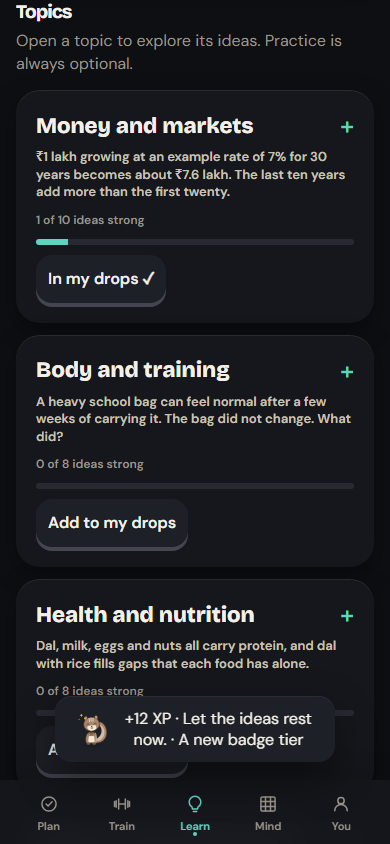
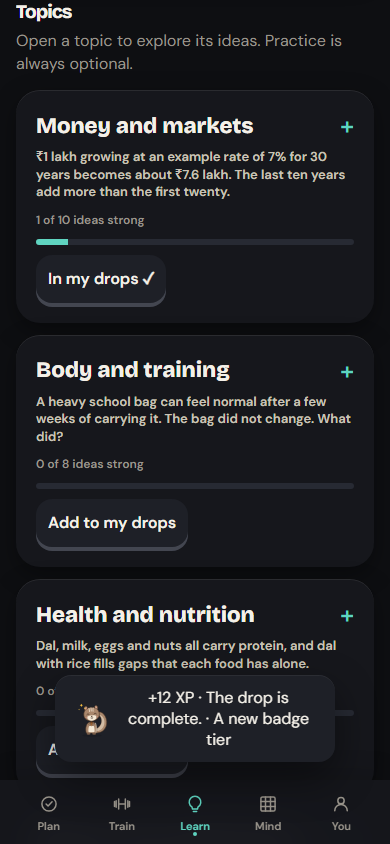
Lesson walk fixes: readable scale and flow diagrams, no page widening, toast off the feedback sheet, honest Perfect drop line
- Scale diagrams: numbered dots on the bar and the words in a list under it (labels overprinted on 26 of 35).
- Flows read top to bottom, one node per line.
- The slide between questions is clipped, so a 360 px page no longer grows to 373 px.
- During a drop the reward toast sits at the top, never over the last feedback sheet.
- "Perfect drop · +10 XP" shows only when it is paid (3+ questions); "1 question", not "1 questions".
- In a lesson the page heading goes and the friend shrinks: the question starts at y=303, was 380.

Changed region(s): [[0.1538, 0.8009, 0.8, 0.8934]]

diff --git a/src/ui/learn/LearnDrop.tsx b/src/ui/learn/LearnDrop.tsx
@@ -243,8 +243,8 @@ export function LearnDrop({ daily = true, night = false, itemCount, preferredCon
       {celebrate && <div className="learn-finish-friends" aria-hidden="true">{friends.map((name, index) => <span key={name} style={{ '--i': index } as CSSProperties}><Cast name={name} pose="cheer" size={64} /></span>)}</div>}
       {goldReview ? <p>{passed ? 'Gold is yours. That idea is holding well.' : 'Try again tomorrow.'}</p> : !drop.items.length && (night || isAfterBedtime(currentTime(), typeof data.bedtime?.value === 'string' ? data.bedtime.value : RULES.night.defaultBedtime)) ? <p>Nothing to review tonight. Sleep is the best study.</p> : <>
         {taughtToday && <div className="step-today card"><p className="eyebrow">Today's idea · {taughtToday.step.title}</p><p className="step-takeaway">{taughtToday.step.takeaway}</p><StepVisual visual={taughtToday.step.visual} /></div>}
-        {questions > 0 && <FinishStats run={celebrate} stats={[[questions, 'questions'], [right, 'right'], [touched.length, touched.length === 1 ? 'idea' : 'ideas']]} />}
-        <p>{taughtToday ? (questions ? `1 new idea · ${questions} ${questions === 1 ? 'question' : 'questions'}.` : '1 new idea.') : `${questions} questions explored.`} {daily || night ? 'Come back when the ideas have had time to settle.' : 'Practice is optional. Your daily drop stays finished.'}</p>{daily && perfectDrop(data.ledger, drop.id, questions) && <p className="learn-perfect">Perfect drop · +{RULES.gamify.perfectDropXp} XP</p>}<h3>Concepts touched</h3><div className="learn-chips">{touched.map((concept, index) => <span className="learn-chip" key={concept.id} style={{ '--i': index } as CSSProperties}>{concept.title}</span>)}</div><p>What improved: {improved.length ? improved.map(concept => `${concept.title} (${progressWord(masteryMapState(data.concepts.find(row => row.id === concept.id)))})`).join(', ') : 'you made a first attempt'}.</p><p>Next review: {due && dayKey(due) > dayKey(now) ? new Date(due).toLocaleDateString(undefined, { month: 'short', day: 'numeric' }) : due ? 'later today' : 'check back tomorrow'}.</p></>}{askOffered && <div className="learn-ask">{askLine && <button type="button" className="text-button learn-ask-button" onClick={() => void shareTextNow(askMessage(askLine), undefined, { dialogTitle: 'Ask someone' }).then(sent => setAskNote(shareNote(sent)))}>Ask someone</button>}<p className="small">Or try it on someone at lunch.</p>{askNote && <p role="status">{askNote}</p>}</div>}<button type="button" onClick={onDone ?? (() => go('learn'))}>Continue</button></div>;
+        {questions > 0 && <FinishStats run={celebrate} stats={[[questions, questions === 1 ? 'question' : 'questions'], [right, 'right'], [touched.length, touched.length === 1 ? 'idea' : 'ideas']]} />}
+        <p>{taughtToday ? (questions ? `1 new idea · ${questions} ${questions === 1 ? 'question' : 'questions'}.` : '1 new idea.') : `${questions} ${questions === 1 ? 'question' : 'questions'} explored.`} {daily || night ? 'Come back when the ideas have had time to settle.' : 'Practice is optional. Your daily drop stays finished.'}</p>{daily && questions >= 3 && perfectDrop(data.ledger, drop.id, questions) && <p className="learn-perfect">Perfect drop · +{RULES.gamify.perfectDropXp} XP</p>}<h3>Concepts touched</h3><div className="learn-chips">{touched.map((concept, index) => <span className="learn-chip" key={concept.id} style={{ '--i': index } as CSSProperties}>{concept.title}</span>)}</div><p>What improved: {improved.length ? improved.map(concept => `${concept.title} (${progressWord(masteryMapState(data.concepts.find(row => row.id === concept.id)))})`).join(', ') : 'you made a first attempt'}.</p><p>Next review: {due && dayKey(due) > dayKey(now) ? new Date(due).toLocaleDateString(undefined, { month: 'short', day: 'numeric' }) : due ? 'later today' : 'check back tomorrow'}.</p></>}{askOffered && <div className="learn-ask">{askLine && <button type="button" className="text-button learn-ask-button" onClick={() => void shareTextNow(askMessage(askLine), undefined, { dialogTitle: 'Ask someone' }).then(sent => setAskNote(shareNote(sent)))}>Ask someone</button>}<p className="small">Or try it on someone at lunch.</p>{askNote && <p role="status">{askNote}</p>}</div>}<button type="button" onClick={onDone ?? (() => go('learn'))}>Continue</button></div>;
   }
   if (step.lesson) {
     const taught = findStep(concepts, step.lesson);

diff --git a/src/ui/learn/learn.css b/src/ui/learn/learn.css
@@ -1,5 +1,6 @@
 .deck-card:has(.learn-drop) { padding: 22px; justify-content: flex-start; }
-.learn-drop { width: 100%; display: grid; align-content: start; gap: 14px; }
+/* The slide-in between questions moves content 28 px right; clip it so the page never grows wider than the phone (cj2 lesson walk #4). */
+.learn-drop { width: 100%; display: grid; align-content: start; gap: 14px; overflow-x: clip; }
 .deck-card .learn-drop h2, .learn-drop h2 { font-size: clamp(20px, 5.4vw, 24px); line-height: 1.3; margin: 5px 0; }
 .deck-card .learn-drop h2.learn-stop-title { font-size: clamp(28px, 7vw, 40px); line-height: 1.13; }
 .learn-drop h3 { margin: 0; }
@@ -158,6 +159,10 @@
 /* C: the friend sits in its own row and says the instruction. */
 .learn-ask-row { display: flex; align-items: center; gap: 14px; min-width: 0; }
 .learn-friend { flex: 0 0 72px; display: grid; place-items: center; transform-origin: 50% 90%; transition: transform .2s ease-out; }
+/* In a lesson or question, the page heading goes and the friend shrinks, so the question starts higher (cj2 lesson walk #7). */
+.learn-screen:has(.learn-active) > .eyebrow, .learn-screen:has(.learn-active) > h1 { display: none; }
+.learn-active .learn-friend { flex-basis: 48px; }
+.learn-active .learn-friend .cast-svg { width: 48px; height: 48px; }
 .learn-friend .cast-svg { transform-origin: 50% 90%; animation: learn-breathe 3s ease-in-out infinite; }
 .learn-friend .cast-pose-cheer { animation: cast-hop .6s ease-out 1 both; }
 .learn-friend .cast-pose-think { animation: learn-tilt .5s ease-out 1 both; }
@@ -249,7 +254,9 @@
 .learn-drop .step-teach-text, .learn-drop .step-takeaway { margin: 0; font-size: 18px; line-height: 27px; color: var(--ink); }
 .step-continue { width: 100%; }
 .step-visual { min-width: 0; }
-.step-flow { display: flex; flex-wrap: wrap; align-items: center; gap: 6px; }
+/* A flow reads top to bottom, one node per line, so arrows never end a line at phone width (cj2 lesson walk #12). */
+.step-flow { display: flex; flex-direction: column; align-items: flex-start; gap: 4px; }
+.step-flow .step-arrow { padding-left: 14px; line-height: 1; }
 .step-node { padding: 8px 12px; border-radius: 12px; background: var(--surface-1); box-shadow: inset 0 0 0 2px var(--area-learn), 0 3px 0 var(--edge-learn, var(--area-learn)); font-weight: 700; color: var(--ink); }
 .step-arrow { color: var(--area-learn); font-weight: 800; }
 .step-compare { display: grid; grid-template-columns: 1fr 1fr; gap: 8px; }
@@ -258,10 +265,9 @@
 .step-side span { font-size: 14px; color: var(--ink-2); }
 .step-scale { display: grid; gap: 6px; }
 .step-scale-label { font-size: 13px; color: var(--ink-2); }
-.step-scale-bar { position: relative; height: 14px; margin: 22px 0 0; border-radius: 999px; background: linear-gradient(90deg, color-mix(in srgb, var(--area-learn) 25%, var(--surface-3)), var(--area-learn)); }
-.step-scale-mark { position: absolute; top: -22px; transform: translateX(-50%); display: grid; justify-items: center; white-space: nowrap; }
-.step-scale-mark b { font-size: 12px; color: var(--ink); }
-.step-scale-mark i { width: 2px; height: 30px; background: var(--ink); opacity: .6; }
+.step-scale-bar { position: relative; height: 14px; margin: 8px 11px 0; border-radius: 999px; background: linear-gradient(90deg, color-mix(in srgb, var(--area-learn) 25%, var(--surface-3)), var(--area-learn)); }
+.step-scale-mark { position: absolute; top: 50%; width: 22px; height: 22px; transform: translate(-50%, -50%); display: grid; place-items: center; border-radius: 50%; background: var(--surface-1); color: var(--ink); box-shadow: inset 0 0 0 2px var(--ink); font-size: 12px; font-weight: 800; }
+.step-scale-list { margin: 4px 0 0; padding-left: 22px; display: grid; gap: 2px; font-size: 14px; color: var(--ink-2); }
 .step-scale-ends { display: flex; justify-content: space-between; font-size: 12px; color: var(--ink-3); }
 .learn-drop .step-example { margin: 0; font-size: 18px; line-height: 2.1; }
 .step-part { display: inline; min-height: 0; margin: 0 1px; padding: 4px 6px; border-radius: 8px; background: var(--surface-2); color: var(--ink); font: inherit; box-shadow: inset 0 0 0 2px var(--edge-soft, var(--line)); -webkit-box-decoration-break: clone; box-decoration-break: clone; }

diff --git a/src/ui/learn/StepLesson.tsx b/src/ui/learn/StepLesson.tsx
@@ -11,15 +11,17 @@ const motionOn = () => !matchMedia('(prefers-reduced-motion: reduce)').matches &
 /** A small diagram drawn from the step's data: a flow of chips, two columns, or a scale with marks. */
 export function StepVisual({ visual }: { visual: StepVisualData }) {
   if (visual.kind === 'flow') return <div className="step-visual step-flow" role="img" aria-label={visual.nodes.join(', then ')}>
-    {visual.nodes.map((node, index) => <Fragment key={node}>{index > 0 && <span className="step-arrow" aria-hidden="true">→</span>}<span className="step-node">{node}</span></Fragment>)}
+    {visual.nodes.map((node, index) => <Fragment key={node}>{index > 0 && <span className="step-arrow" aria-hidden="true">↓</span>}<span className="step-node">{node}</span></Fragment>)}
   </div>;
   if (visual.kind === 'compare') return <div className="step-visual step-compare" role="img" aria-label={`${visual.left.title}: ${visual.left.lines.join(', ')}. ${visual.right.title}: ${visual.right.lines.join(', ')}.`}>
     {[visual.left, visual.right].map(side => <div key={side.title} className="step-side"><strong>{side.title}</strong>{side.lines.map(line => <span key={line}>{line}</span>)}</div>)}
   </div>;
   return <div className="step-visual step-scale" role="img" aria-label={`${visual.label}: from ${visual.min} to ${visual.max}. ${visual.marks.map(mark => mark.text).join('. ')}.`}>
     <span className="step-scale-label">{visual.label}</span>
-    <div className="step-scale-bar">{visual.marks.map(mark => <span key={mark.text} className="step-scale-mark" style={{ left: `${mark.at}%` }}><i /><b>{mark.text}</b></span>)}</div>
+    {/* Numbered dots on the bar and the words in a list under it, so labels never overprint or widen the page (cj2 lesson walk #3, #4). */}
+    <div className="step-scale-bar">{visual.marks.map((mark, index) => <span key={mark.text} className="step-scale-mark" style={{ left: `${Math.min(100, Math.max(0, mark.at))}%` }} aria-hidden="true">{index + 1}</span>)}</div>
     <div className="step-scale-ends"><span>{visual.min}</span><span>{visual.max}</span></div>
+    <ol className="step-scale-list">{visual.marks.map(mark => <li key={mark.text}>{mark.text}</li>)}</ol>
   </div>;
 }
 

diff --git a/src/ui/screens/economy.css b/src/ui/screens/economy.css
@@ -46,6 +46,8 @@
 .backfill-slots { display: grid; grid-template-columns: repeat(auto-fit, minmax(64px, 1fr)); gap: 8px; }
 .backfill-slots button { min-height: 44px; padding: 6px; }
 .economy-toast { position: fixed; z-index: 20; left: 50%; bottom: calc(82px + env(safe-area-inset-bottom)); transform: translateX(-50%); pointer-events: none; background: var(--surface-2); color: var(--ink); box-shadow: var(--shadow-2); border-radius: 16px; padding: 12px 18px; min-width: min(280px, 90vw); text-align: center; animation: economy-toast-in 500ms ease-out; }
+/* During a drop the toast sits at the top, never over the feedback sheet at the bottom (cj2 lesson walk #5). */
+.app-shell:has(.learn-active, .learn-feedback) .economy-toast { bottom: auto; top: calc(10px + env(safe-area-inset-top)); }
 .economy-reveal { position: fixed; z-index: 30; inset: 0; background: var(--bg); display: grid; place-items: center; padding: 20px; }
 .economy-reveal-card { background: var(--surface-1); border-radius: 28px; padding: 32px; width: min(100%, 440px); box-shadow: var(--shadow-2); text-align: center; animation: economy-reveal-in 1.3s ease-out; }
 .economy-reveal-card h2 { font-size: clamp(36px, 10vw, 54px); }
